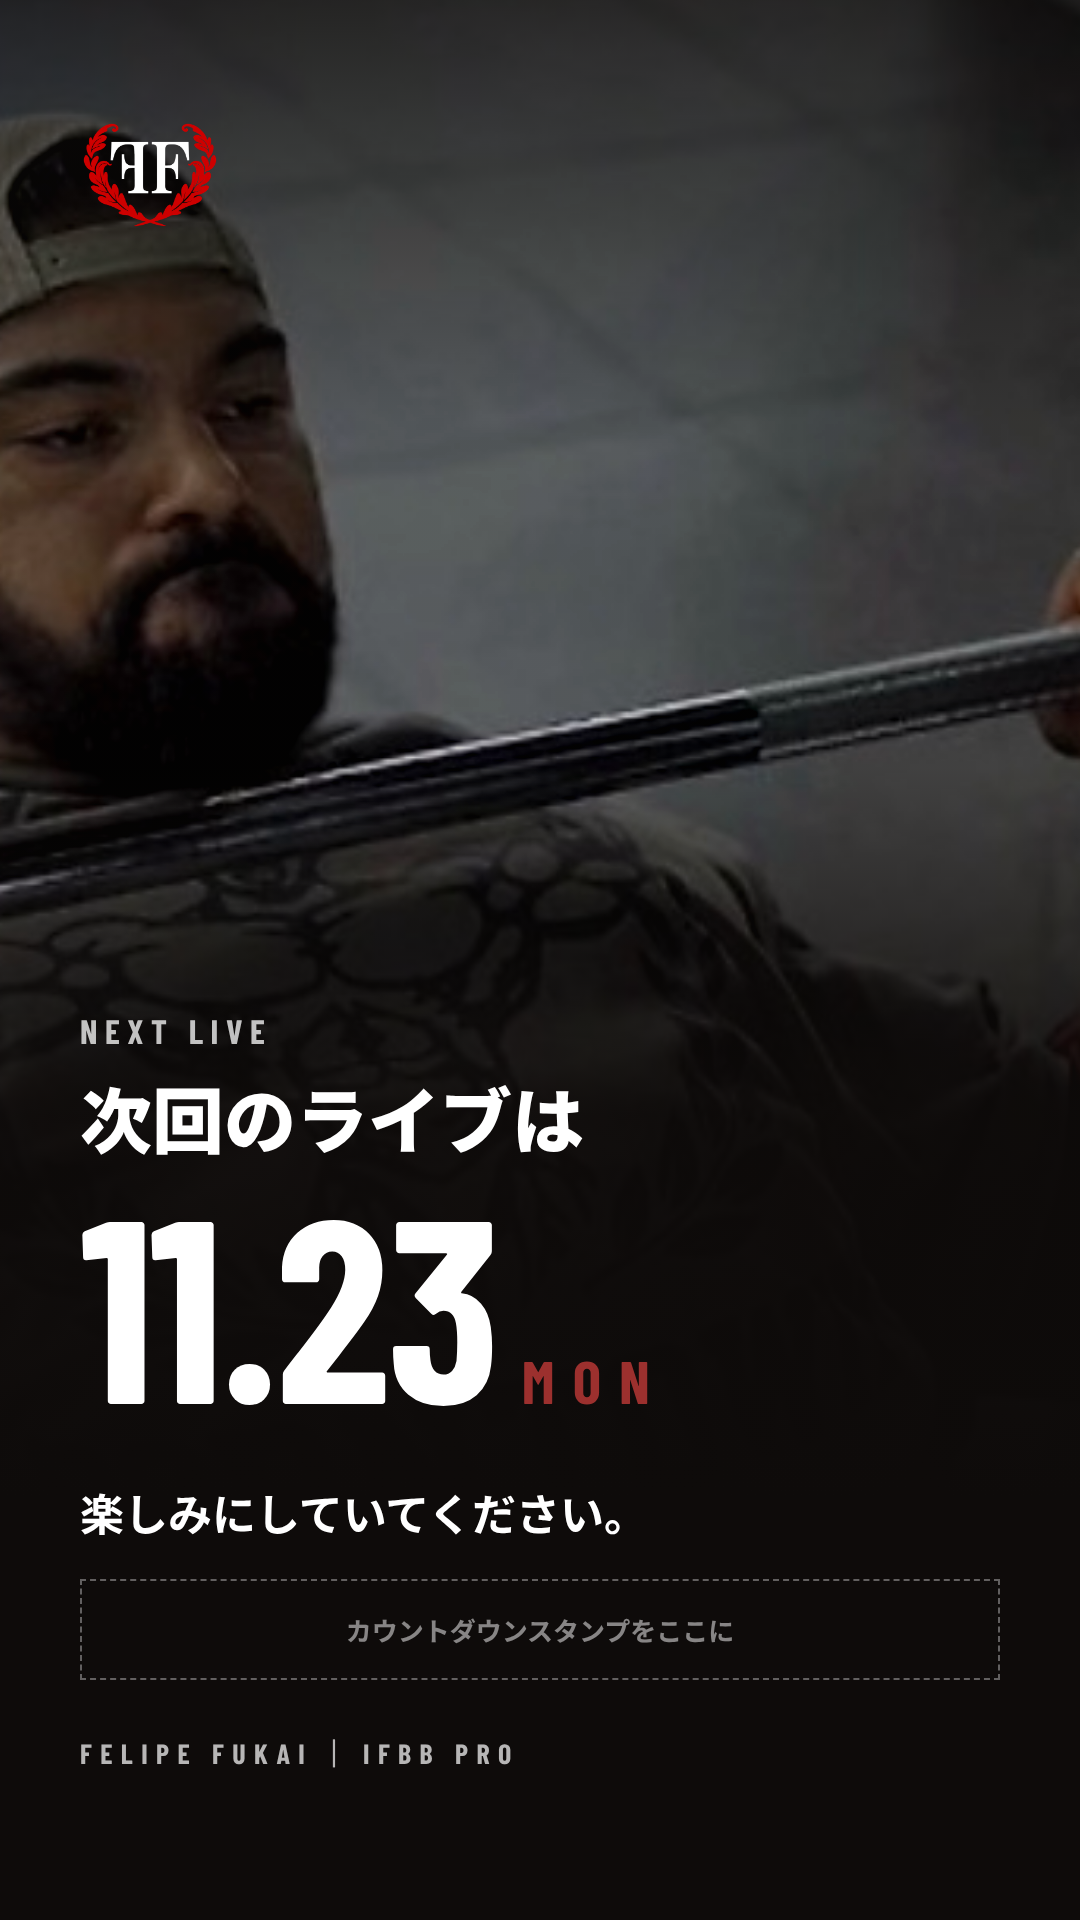
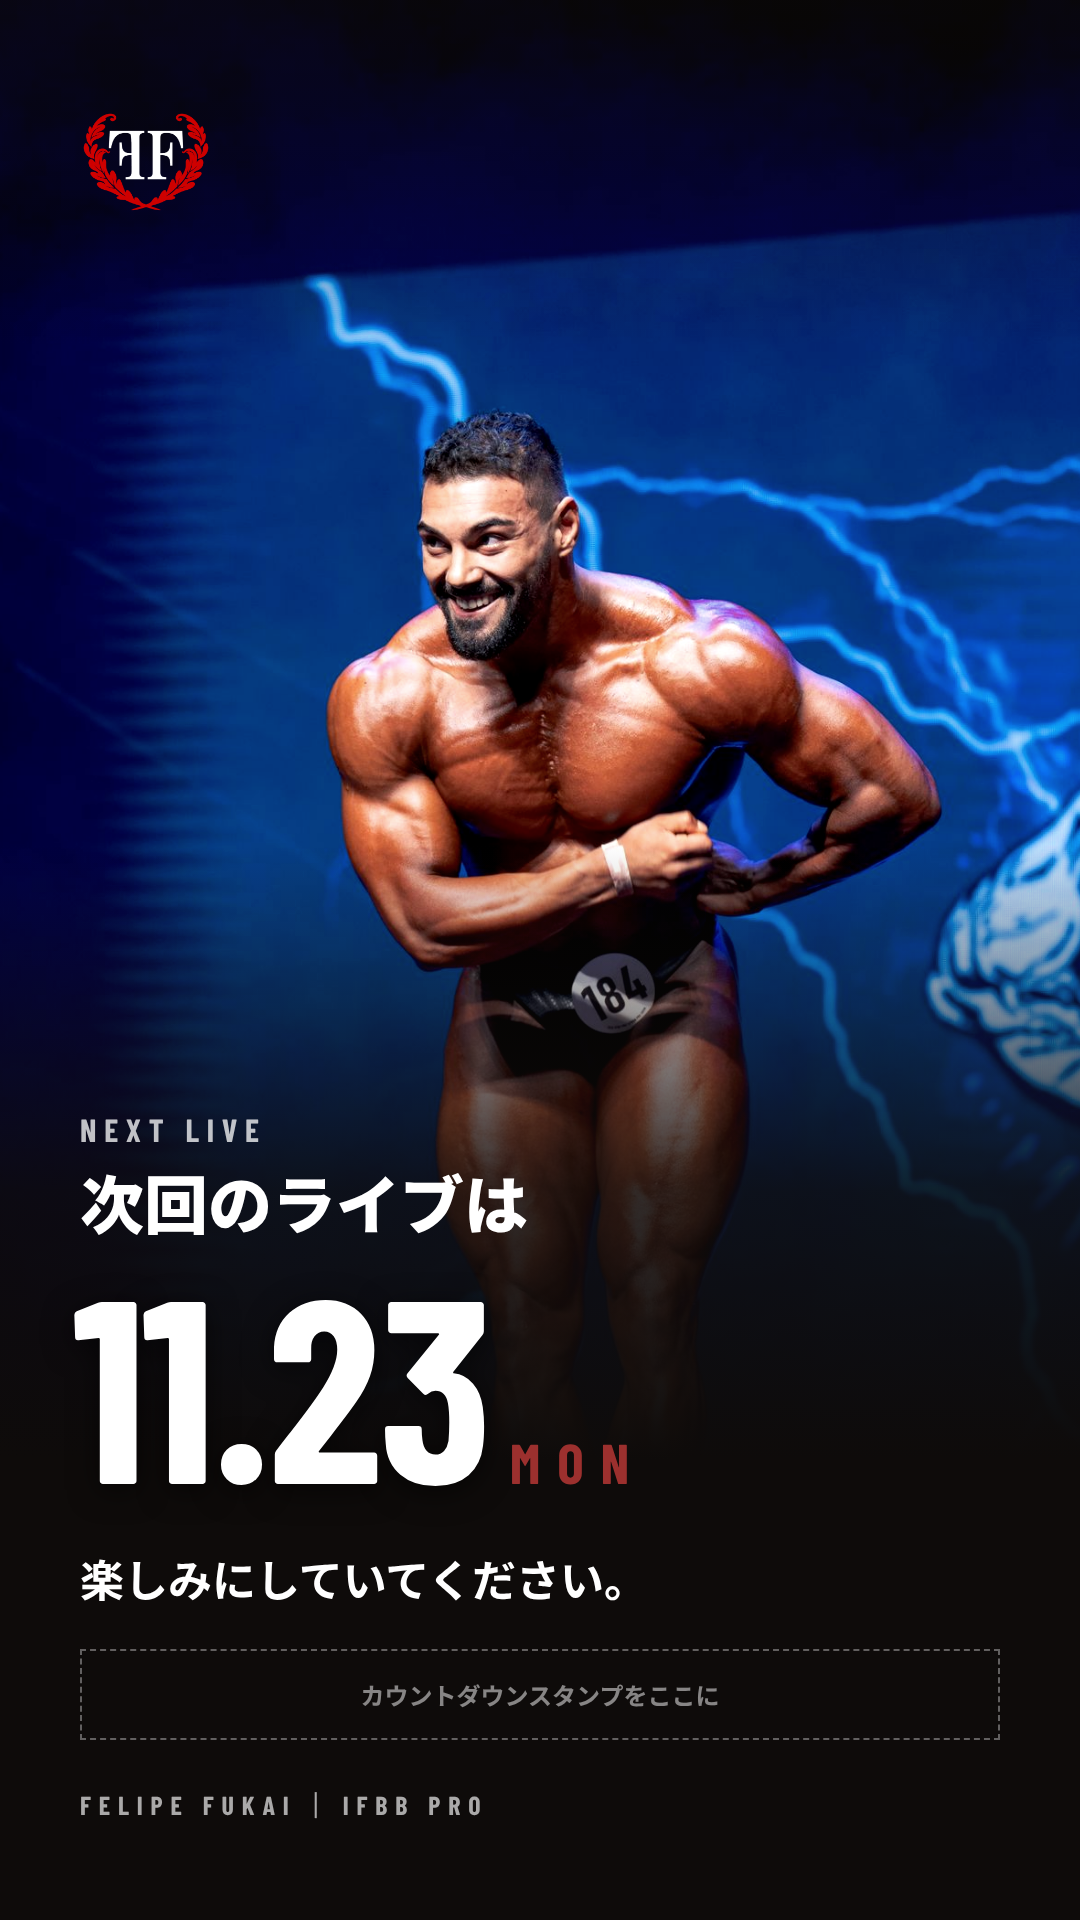
Stories: stage photo, text in the lower third, date version with large 11.23
Claude-Session: https://claude.ai/code/session_01HRty6kL8VRnpLHHHzSF3iS

diff --git a/assets/story/story-template.html b/assets/story/story-template.html
@@ -4,15 +4,15 @@
 @font-face{font-family:"BC";src:url("../fonts/node_modules/@fontsource/barlow-condensed/files/barlow-condensed-latin-700-normal.woff2") format("woff2");font-weight:700}
 *{margin:0;padding:0;box-sizing:border-box}html,body{width:1080px;height:1920px;overflow:hidden;background:#0E0B0A}
 body{font-family:"NS",sans-serif;color:#fff;position:relative}
-.bg{position:absolute;inset:0;background:url(gym.jpg) 58% 100%/auto 118% no-repeat;filter:contrast(1.2) saturate(.85) brightness(.9)}
-.fade{position:absolute;inset:0;background:linear-gradient(180deg,rgba(14,11,10,.75) 0%,rgba(14,11,10,.15) 22%,rgba(14,11,10,.15) 40%,rgba(14,11,10,.9) 58%,#0E0B0A 78%)}
-.logo{position:absolute;left:80px;top:120px;height:110px}
-.kick{position:absolute;left:80px;top:1010px;font-family:"BC",sans-serif;font-size:34px;letter-spacing:.22em;color:rgba(255,255,255,.75)}
-.h{position:absolute;left:80px;top:1070px;width:920px;font-size:72px;font-weight:900;line-height:1.3}
-.p{position:absolute;left:80px;top:1330px;width:920px;font-size:40px;font-weight:700;line-height:1.7;color:rgba(255,255,255,.92)}
-.cta{position:absolute;left:80px;right:80px;bottom:240px;background:#9C302E;color:#fff;font-size:38px;font-weight:900;text-align:center;padding:30px}
-.cta small{display:block;font-size:24px;font-weight:700;margin-top:6px;opacity:.9}
-.who{position:absolute;left:80px;bottom:150px;font-family:"BC",sans-serif;font-size:28px;letter-spacing:.3em;color:rgba(255,255,255,.7)}
+.bg{position:absolute;inset:0;background:url(stage.jpg) 50% 12%/cover no-repeat;filter:contrast(1.08) saturate(.9)}
+.fade{position:absolute;inset:0;background:linear-gradient(180deg,rgba(14,11,10,.6) 0%,rgba(14,11,10,0) 18%,rgba(14,11,10,0) 44%,rgba(14,11,10,.85) 62%,#0E0B0A 76%)}
+.logo{position:absolute;left:80px;top:110px;height:104px}
+.kick{position:absolute;left:80px;top:1110px;font-family:"BC",sans-serif;font-size:32px;letter-spacing:.24em;color:rgba(255,255,255,.75)}
+.h{position:absolute;left:80px;top:1160px;width:920px;font-size:70px;font-weight:900;line-height:1.3}
+.p{position:absolute;left:80px;top:1370px;width:920px;font-size:38px;font-weight:700;line-height:1.7;color:rgba(255,255,255,.92)}
+.cta{position:absolute;left:80px;right:80px;bottom:180px;background:#9C302E;color:#fff;font-size:36px;font-weight:900;text-align:center;padding:28px}
+.cta small{display:block;font-size:22px;font-weight:700;margin-top:4px;opacity:.85}
+.who{position:absolute;left:80px;bottom:100px;font-family:"BC",sans-serif;font-size:26px;letter-spacing:.3em;color:rgba(255,255,255,.65)}
 </style></head><body>
 <div class="bg"></div><div class="fade"></div>
 <img class="logo" src="logo.png" alt="">

diff --git a/assets/story/story-template-date.html b/assets/story/story-template-date.html
@@ -1,0 +1,27 @@
+<!doctype html><html lang="ja"><head><meta charset="utf-8"><style>
+@font-face{font-family:"NS";src:url("../fonts/node_modules/@fontsource/noto-sans-jp/files/noto-sans-jp-japanese-900-normal.woff2") format("woff2");font-weight:900}
+@font-face{font-family:"NS";src:url("../fonts/node_modules/@fontsource/noto-sans-jp/files/noto-sans-jp-japanese-700-normal.woff2") format("woff2");font-weight:700}
+@font-face{font-family:"BC";src:url("../fonts/node_modules/@fontsource/barlow-condensed/files/barlow-condensed-latin-700-normal.woff2") format("woff2");font-weight:700}
+*{margin:0;padding:0;box-sizing:border-box}html,body{width:1080px;height:1920px;overflow:hidden;background:#0E0B0A}
+body{font-family:"NS",sans-serif;color:#fff;position:relative}
+.bg{position:absolute;inset:0;background:url(stage.jpg) 50% 12%/cover no-repeat;filter:contrast(1.08) saturate(.9)}
+.fade{position:absolute;inset:0;background:linear-gradient(180deg,rgba(14,11,10,.6) 0%,rgba(14,11,10,0) 18%,rgba(14,11,10,0) 44%,rgba(14,11,10,.85) 62%,#0E0B0A 76%)}
+.logo{position:absolute;left:80px;top:110px;height:104px}
+.kick{position:absolute;left:80px;top:1110px;font-family:"BC",sans-serif;font-size:32px;letter-spacing:.24em;color:rgba(255,255,255,.75)}
+.h{position:absolute;left:80px;top:1160px;font-size:64px;font-weight:900;line-height:1.3}
+.date{position:absolute;left:72px;top:1250px;font-family:"BC",sans-serif;line-height:1}
+.date b{font-size:260px;font-weight:700;letter-spacing:-.01em;text-shadow:0 6px 30px rgba(0,0,0,.6)}
+.date span{font-size:56px;letter-spacing:.3em;margin-left:20px;color:#9C302E}
+.p{position:absolute;left:80px;bottom:310px;font-size:44px;font-weight:700}
+.cd{position:absolute;left:80px;right:80px;bottom:180px;border:2px dashed rgba(255,255,255,.35);color:rgba(255,255,255,.5);font-size:24px;text-align:center;padding:26px}
+.who{position:absolute;left:80px;bottom:100px;font-family:"BC",sans-serif;font-size:26px;letter-spacing:.3em;color:rgba(255,255,255,.65)}
+</style></head><body>
+<div class="bg"></div><div class="fade"></div>
+<img class="logo" src="logo.png" alt="">
+<p class="kick">NEXT LIVE</p>
+<p class="h">次回のライブは</p>
+<p class="date"><b>11.23</b><span>MON</span></p>
+<p class="p">楽しみにしていてください。</p>
+<div class="cd">カウントダウンスタンプをここに</div>
+<p class="who">FELIPE FUKAI ｜ IFBB PRO</p>
+</body></html>
